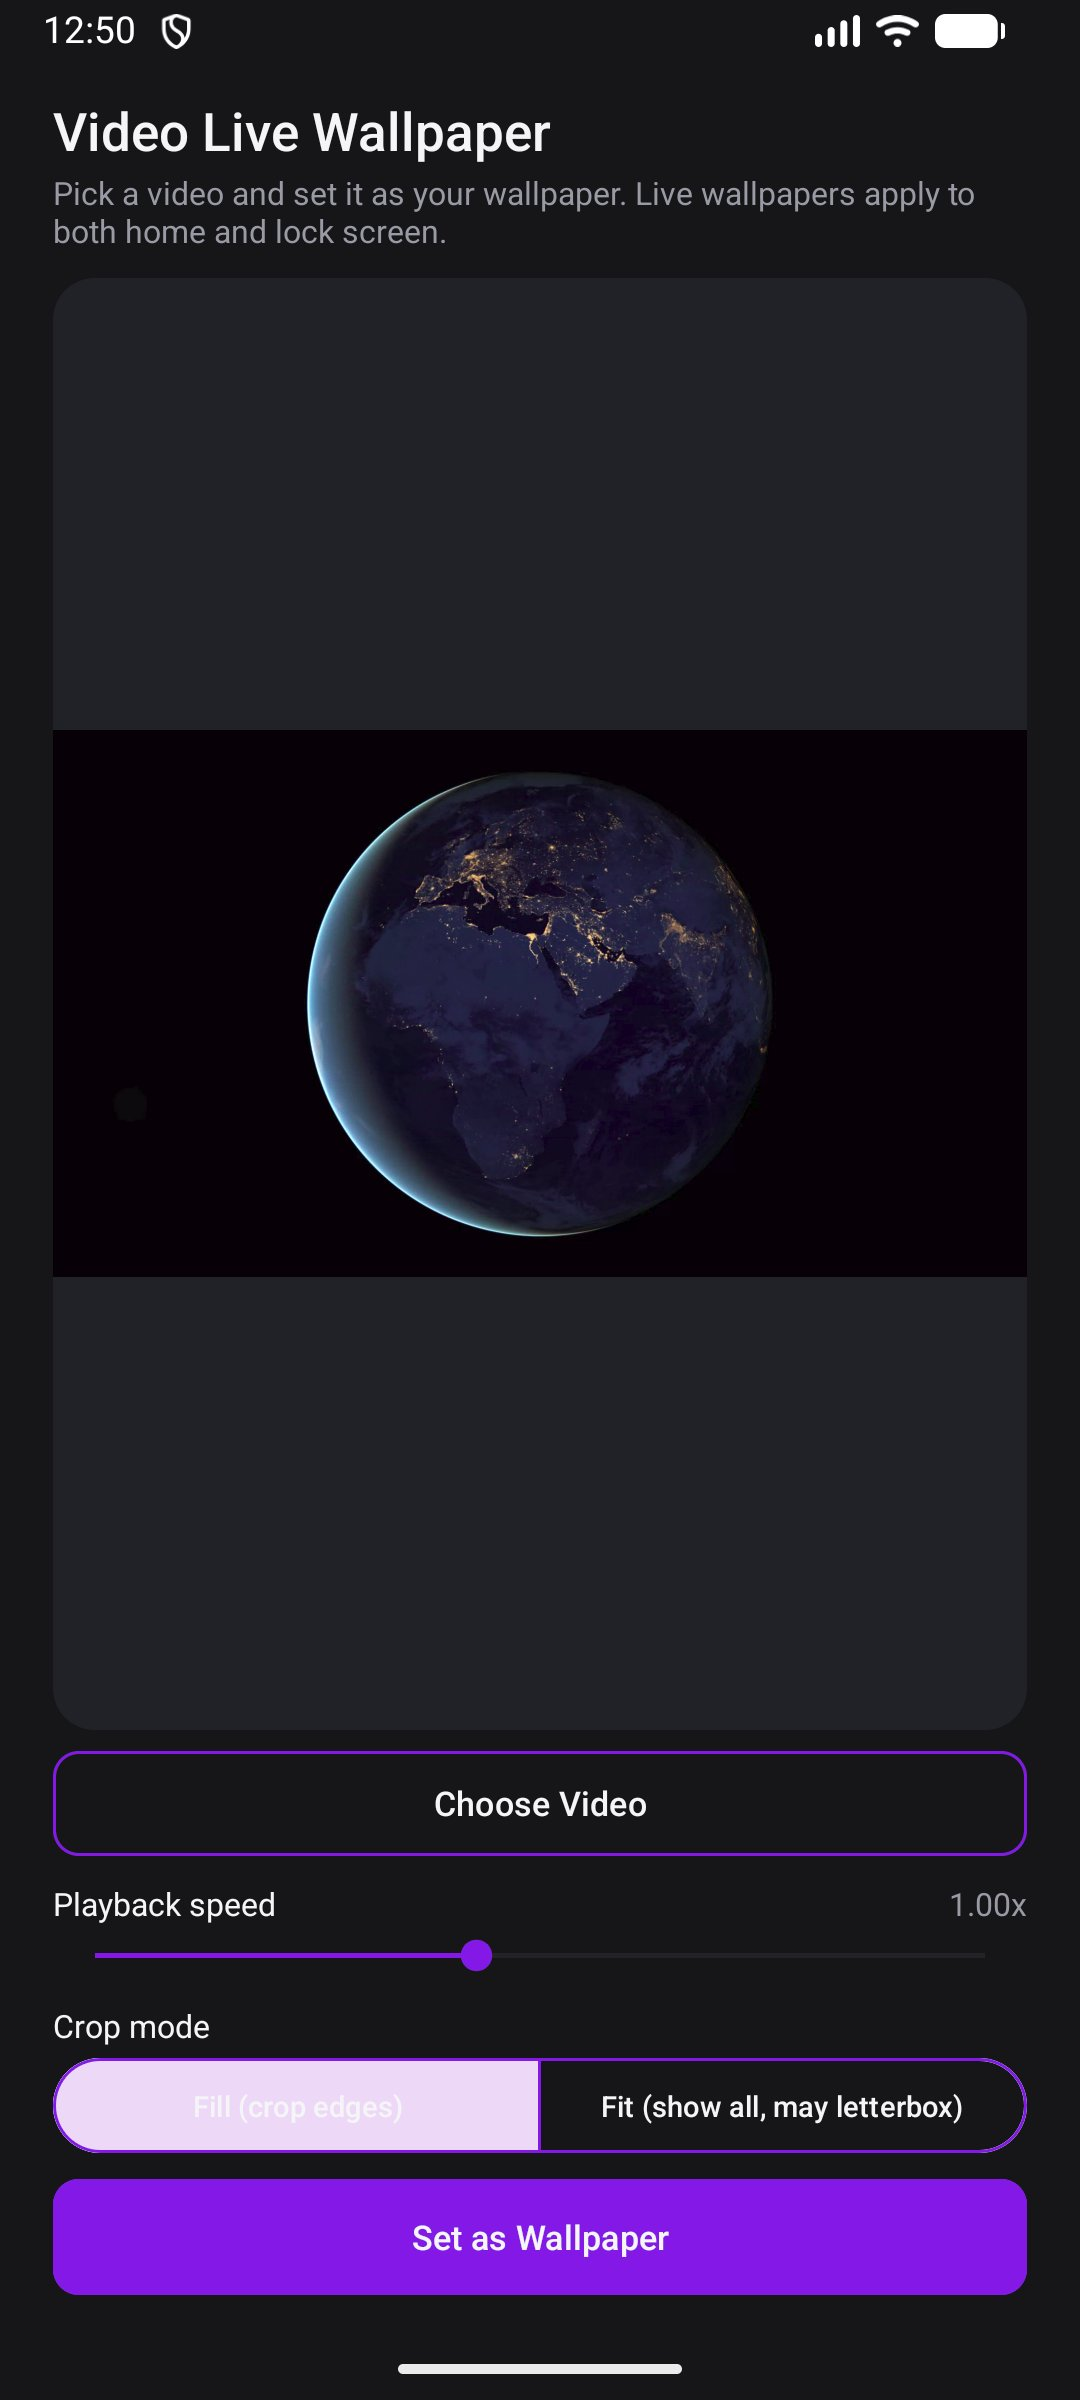
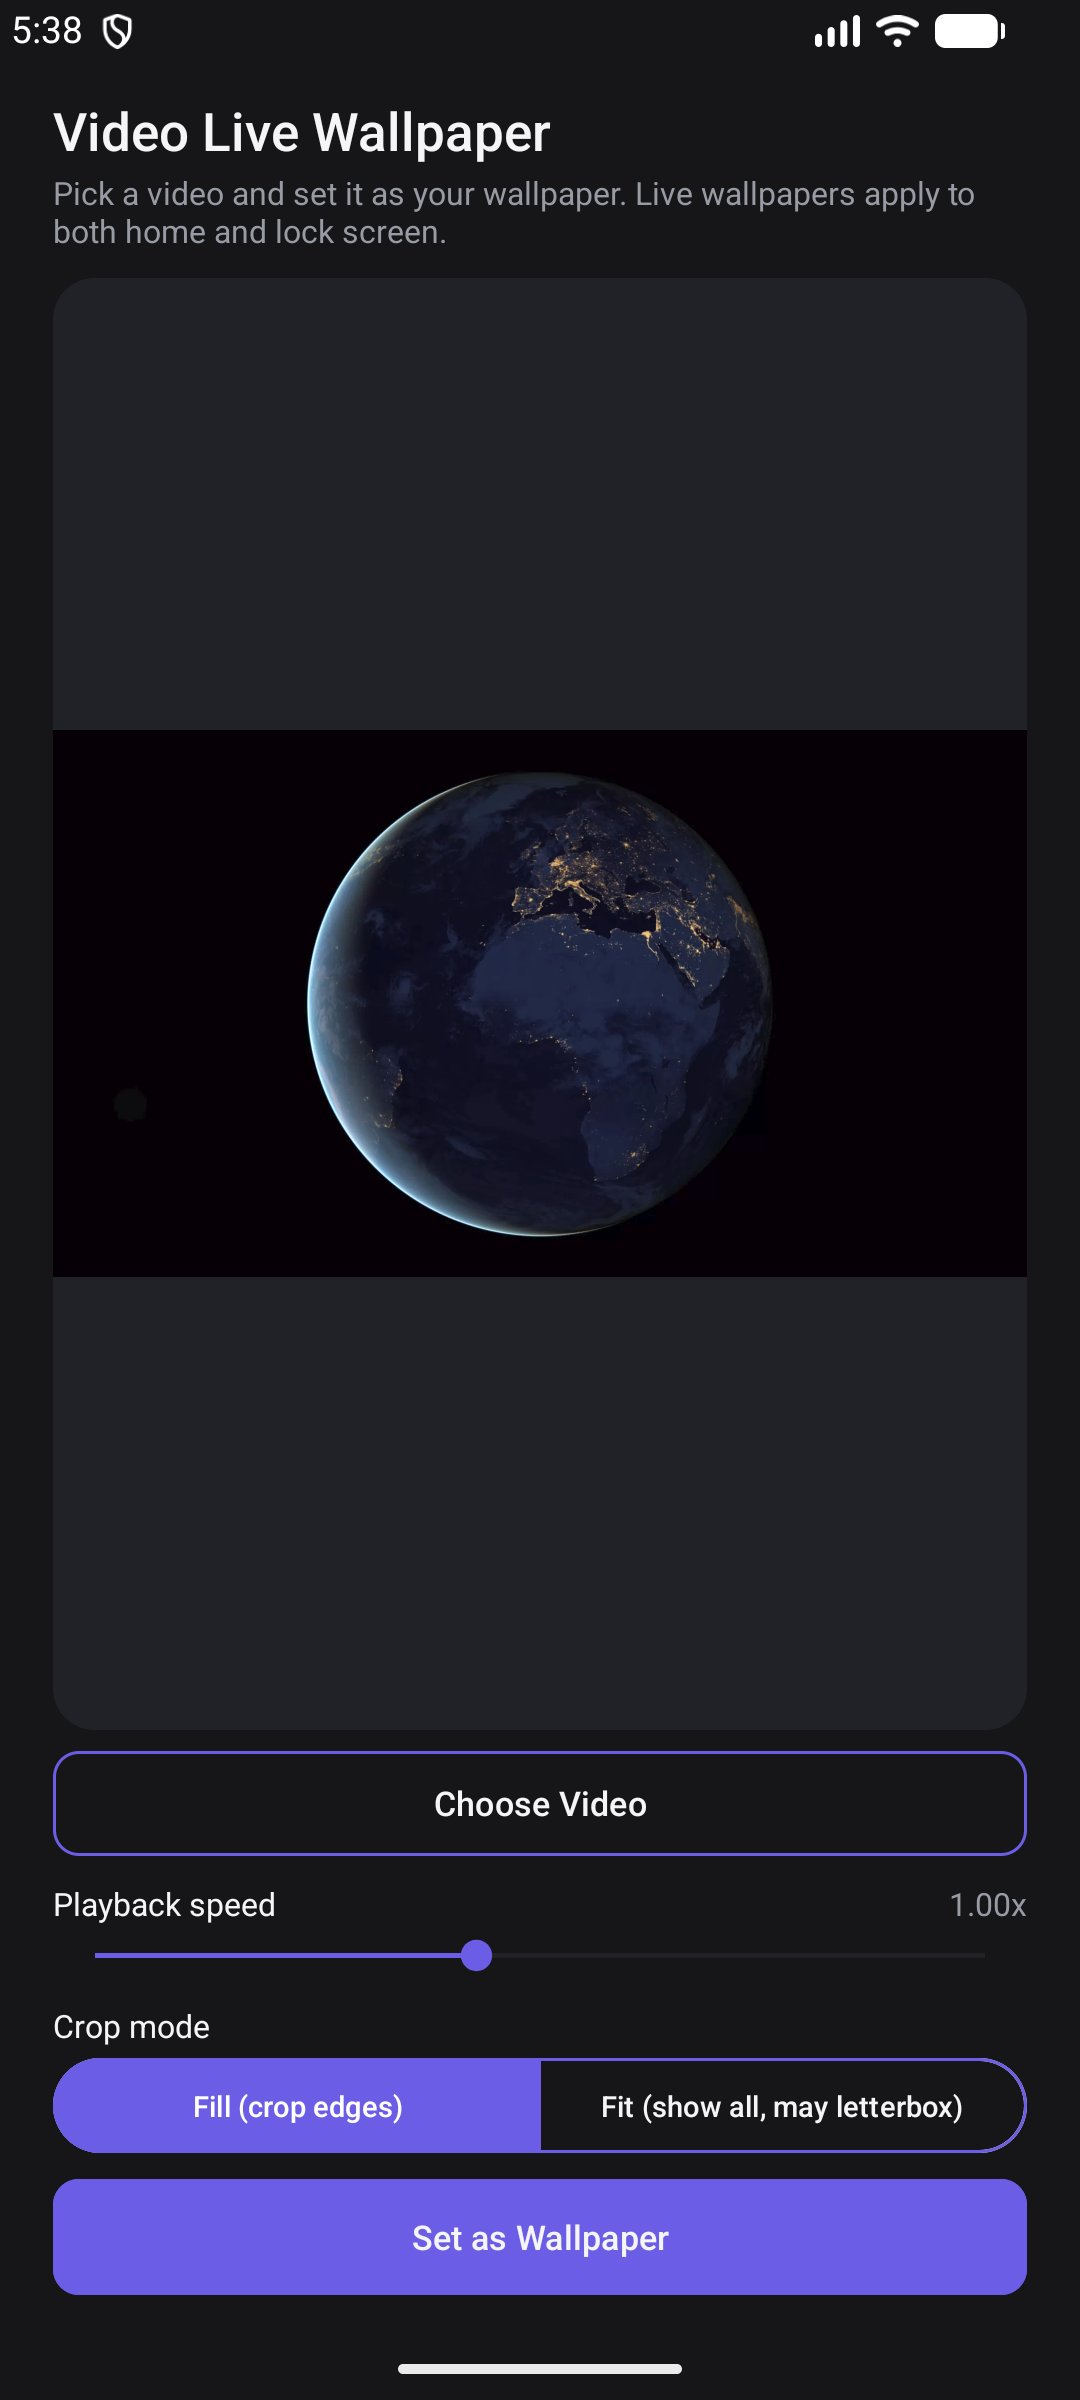
Release 1.2.1: fix toggle button contrast, drop dependency info blob, refresh listing

diff --git a/README.md b/README.md
@@ -1,38 +1,61 @@
 # Video Live Wallpaper
 
-A small Android app that lets you pick any video from your device and set
-it as a looping live wallpaper.
+A small Android app that lets you pick any video from your device and set it as a looping live wallpaper.
+
+<p align="center">
+  <img src="fastlane/metadata/android/en-US/images/phoneScreenshots/1.jpg" width="260" alt="Main screen: choose a video, playback speed, crop mode">
+  <img src="fastlane/metadata/android/en-US/images/phoneScreenshots/2.jpg" width="260" alt="Android's live wallpaper preview screen">
+</p>
 
 ## Features
 
 - Pick a video with the system file picker
 - Preview it looping (muted) before setting it
 - Adjustable playback speed (0.25x–2.0x)
-- Fill or fit crop mode
-- One-tap wallpaper setting — applies to both home and lock screen
+- Fill (crop to cover the screen) or Fit (show the whole frame, letterboxed if needed) scaling
+- One-tap wallpaper setting through Android's own live wallpaper picker
 - No ads, no analytics, no network access of any kind
+
+## Install
+
+- **F-Droid:** [Video Live Wallpaper on F-Droid](https://f-droid.org/packages/io.github.codeg0blin.videowallpaper/)
+- **GitHub:** download the APK from the [Releases](https://github.com/codeg0blin/video-live-wallpaper/releases) page.
+
+Requires Android 8.0 (API 26) or newer.
 
 ## How it works
 
-The app implements an Android `WallpaperService` that loops your chosen
-video using `MediaPlayer`. Setting the wallpaper goes through Android's own
-system picker (`ACTION_CHANGE_LIVE_WALLPAPER`) — this is required by the
-OS for all live wallpaper apps, not just this one.
+The app implements an Android `WallpaperService` that loops your chosen video using `MediaPlayer`. Since version 1.2.0, decoded frames go to a `SurfaceTexture` and are drawn with a small OpenGL ES 2.0 renderer (`VideoFrameRenderer.kt`). This is what makes Fill and Fit scaling work: Android's usual video scaling relies on resizing the display surface, which live wallpapers aren't allowed to do (see issue #1).
 
-Live wallpapers on Android apply to both the home screen and lock screen
-simultaneously. Independent control per surface is not supported by the
-Android live wallpaper API on any device.
+Setting the wallpaper goes through Android's own system picker (`ACTION_CHANGE_LIVE_WALLPAPER`). The OS requires this for all live wallpaper apps, not just this one.
+
+Android applies a live wallpaper to the home screen and lock screen together, and the live wallpaper API has no per-screen setting. Some devices' system pickers may still offer extra choices; if yours does, the video plays on whichever screens you select.
+
+## Privacy
+
+The app has no internet permission and contains no analytics, tracking or advertising code. The only thing it stores is a reference (URI) to the video you picked, kept locally in `SharedPreferences` on your device.
 
 ## Building
 
-Open the project in Android Studio (or run `./gradlew assembleDebug` /
-`assembleRelease` from the command line). Requires Android SDK 34 and
-min SDK 26 (Android 8.0+).
+Open the project in Android Studio, or build from the command line:
+
+```
+./gradlew assembleDebug
+./gradlew assembleRelease
+```
+
+Requires JDK 17 and Android SDK 34 (`compileSdk`/`targetSdk` 34, `minSdk` 26).
+
+## Changelog
+
+Per-version release notes are in [`fastlane/metadata/android/en-US/changelogs`](fastlane/metadata/android/en-US/changelogs), named by version code.
+
+## Contributing
+
+Bug reports and suggestions are welcome via [issues](https://github.com/codeg0blin/video-live-wallpaper/issues).
 
 ## License
 
-Apache License 2.0 — see [LICENSE](LICENSE) and [NOTICE](NOTICE).
+Apache License 2.0. See [LICENSE](LICENSE) and [NOTICE](NOTICE).
 
-See [ATTRIBUTION.md](ATTRIBUTION.md) for a full list of the open-source
-libraries this app depends on, and a note on how the source code itself
-was written.
+See [ATTRIBUTION.md](ATTRIBUTION.md) for a full list of the open-source libraries this app depends on, and a note on how the source code itself was written.
